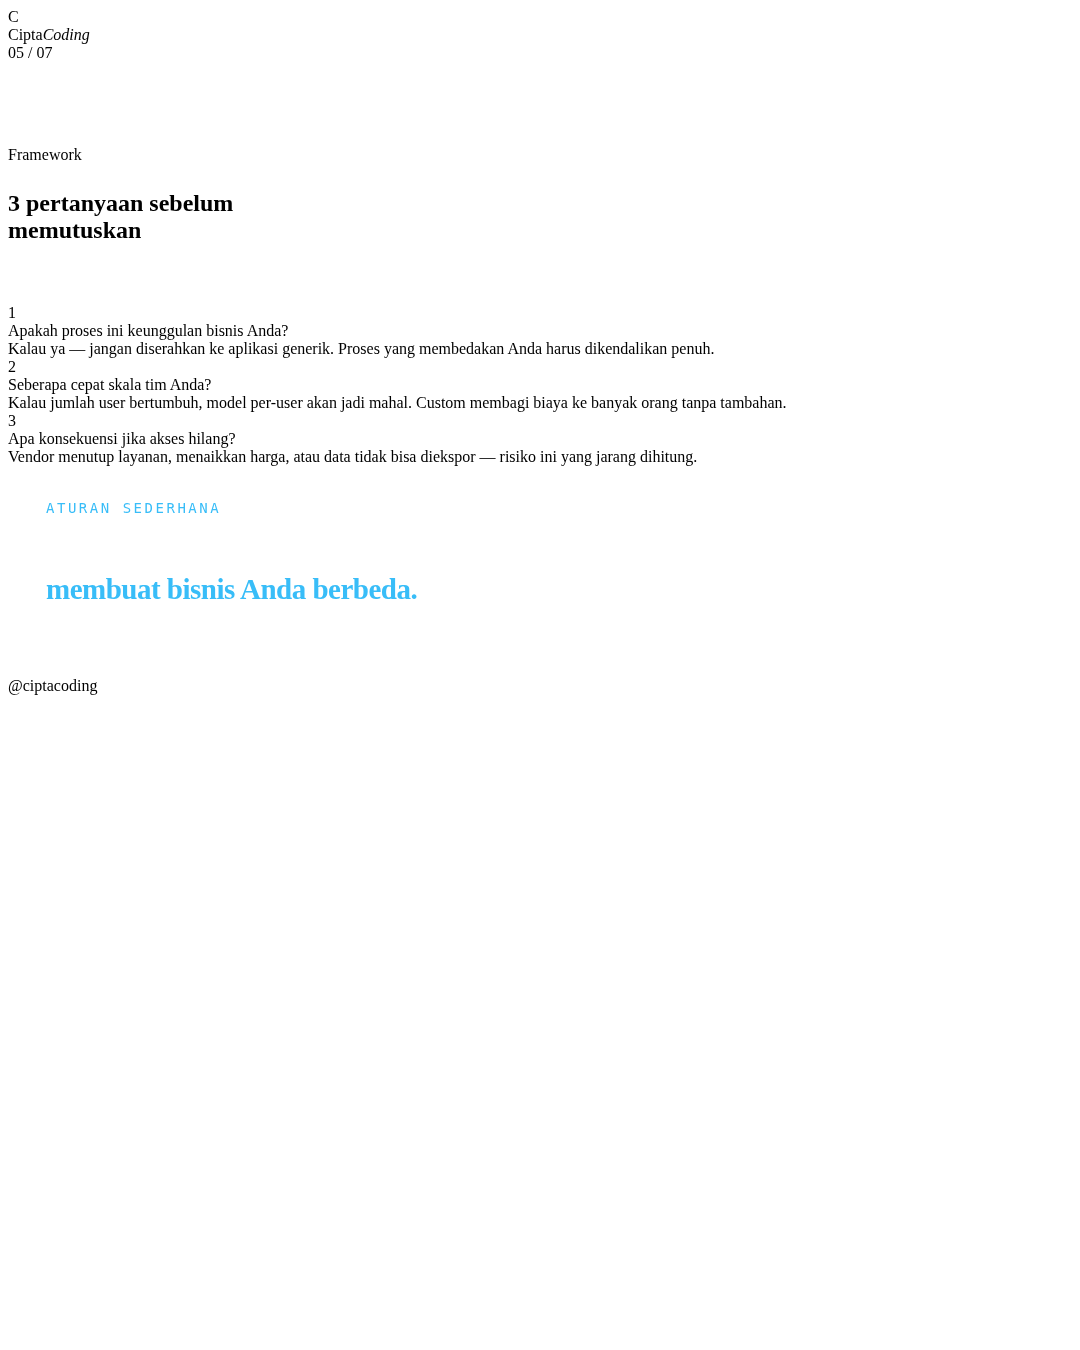
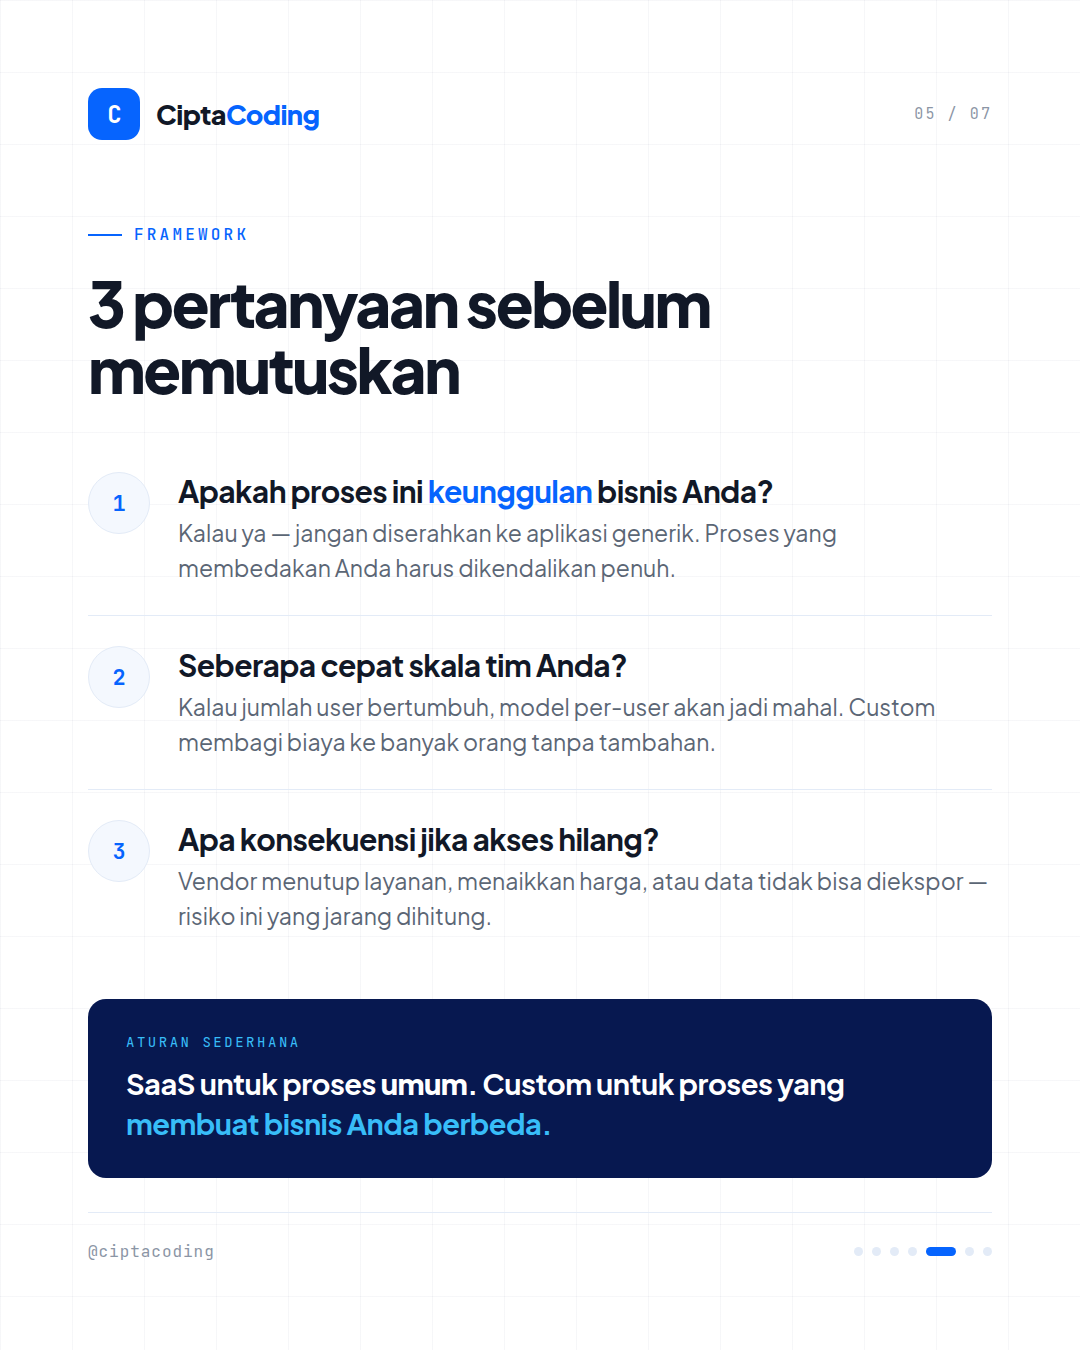
fix(render): output PNG RGB opaque + correct CSS path
- --default-background-color FFFFFFFF (bukan transparan)
- Ratakan alpha ke putih setelah render (Instagram menolak PNG transparan)
- Path CSS ../site/ -> ../src/ (folder site tidak ikut repo, slide render kosong)
- Tambah preview-all.png contact sheet

diff --git a/posts/p1-custom-vs-saas_06.html b/posts/p1-custom-vs-saas_06.html
@@ -2,7 +2,7 @@
 <html lang="id">
 <head>
 <meta charset="utf-8">
-<link rel="stylesheet" href="../site/assets/style.css">
+<link rel="stylesheet" href="../src/assets/style.css">
 <style>
   .body { margin-top: 84px; flex: 1; display: flex; flex-direction: column; }
   .grid4 { display: grid; grid-template-columns: 1fr 1fr; gap: 20px; margin-top: 44px; }

diff --git a/posts/p1-custom-vs-saas_03.html b/posts/p1-custom-vs-saas_03.html
@@ -2,7 +2,7 @@
 <html lang="id">
 <head>
 <meta charset="utf-8">
-<link rel="stylesheet" href="../site/assets/style.css">
+<link rel="stylesheet" href="../src/assets/style.css">
 <style>
   .body { margin-top: 84px; flex: 1; display: flex; flex-direction: column; }
   .rules { display: flex; flex-direction: column; gap: 18px; margin-top: 48px; }

diff --git a/posts/p1-custom-vs-saas_07.html b/posts/p1-custom-vs-saas_07.html
@@ -2,7 +2,7 @@
 <html lang="id">
 <head>
 <meta charset="utf-8">
-<link rel="stylesheet" href="../site/assets/style.css">
+<link rel="stylesheet" href="../src/assets/style.css">
 <style>
   .body { margin-top: 66px; flex: 1; display: flex; flex-direction: column; }
   .cta-wrap { margin-top: auto; margin-bottom: 8px; }

diff --git a/posts/p1-custom-vs-saas_01.html b/posts/p1-custom-vs-saas_01.html
@@ -2,7 +2,7 @@
 <html lang="id">
 <head>
 <meta charset="utf-8">
-<link rel="stylesheet" href="../site/assets/style.css">
+<link rel="stylesheet" href="../src/assets/style.css">
 <style>
   /* ---- Cover: Custom vs SaaS ---- */
   .cover-body { margin-top: 78px; display: flex; flex-direction: column; flex: 1; }

diff --git a/posts/p1-custom-vs-saas_02.html b/posts/p1-custom-vs-saas_02.html
@@ -2,7 +2,7 @@
 <html lang="id">
 <head>
 <meta charset="utf-8">
-<link rel="stylesheet" href="../site/assets/style.css">
+<link rel="stylesheet" href="../src/assets/style.css">
 <style>
   .body { margin-top: 84px; flex: 1; display: flex; flex-direction: column; }
   h2.head { margin-bottom: 26px; }

diff --git a/posts/p1-custom-vs-saas_05.html b/posts/p1-custom-vs-saas_05.html
@@ -2,7 +2,7 @@
 <html lang="id">
 <head>
 <meta charset="utf-8">
-<link rel="stylesheet" href="../site/assets/style.css">
+<link rel="stylesheet" href="../src/assets/style.css">
 <style>
   .body { margin-top: 84px; flex: 1; display: flex; flex-direction: column; }
   .steps { margin-top: 40px; }

diff --git a/posts/p1-custom-vs-saas_04.html b/posts/p1-custom-vs-saas_04.html
@@ -2,7 +2,7 @@
 <html lang="id">
 <head>
 <meta charset="utf-8">
-<link rel="stylesheet" href="../site/assets/style.css">
+<link rel="stylesheet" href="../src/assets/style.css">
 <style>
   .body { margin-top: 84px; flex: 1; display: flex; flex-direction: column; }
   .chart {

diff --git a/render.py b/render.py
@@ -37,13 +37,24 @@ def render(html_path, png_path):
         "--hide-scrollbars", "--force-device-scale-factor=1",
         "--window-size=1080,1350",
         f"--screenshot={png_path}",
-        "--default-background-color=00000000",
+        "--default-background-color=FFFFFFFF",
         f"file://{html_path}",
     ]
     r = subprocess.run(cmd, capture_output=True, text=True, timeout=120)
     if not os.path.exists(png_path):
         print("FAIL", html_path, r.stderr[-800:])
         return False
+    # Ratakan RGBA transparan ke putih — Instagram menolak PNG transparan
+    try:
+        from PIL import Image
+        im = Image.open(png_path)
+        if im.mode in ("RGBA", "LA", "P"):
+            im = im.convert("RGBA")
+            bg = Image.new("RGB", im.size, (255, 255, 255))
+            bg.paste(im, mask=im.split()[-1])
+            bg.save(png_path, optimize=True)
+    except ImportError:
+        pass
     return True
 
 
